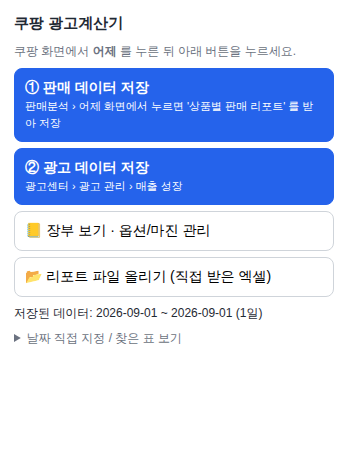
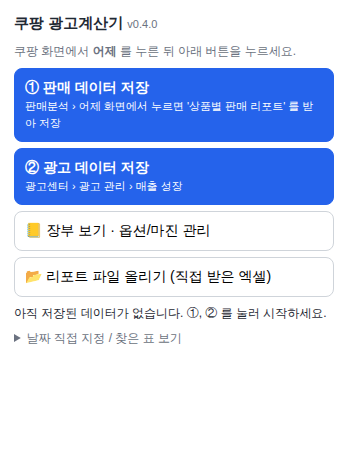
확장 v0.4.0: 읽기 스크립트 자동 주입, 주소의 날짜 인식, 버전 표시
- 확장 새로고침 후 이미 열린 쿠팡 탭에서 content script 가 없어 "표를 찾지 못했습니다" 가 나던 문제:
  팝업이 응답 없음을 감지하면 chrome.scripting 으로 직접 주입 후 재시도
- 판매분석 주소의 start_date/end_date(같을 때)를 데이터 날짜로 사용
- 자동 수집: 주소의 {date} 자리에 어제 날짜 치환, 판매분석은 표 대신 리포트 다운로드 흐름으로 처리
- ① 클릭 직후 2분 안의 xlsx/csv 다운로드는 파일명과 무관하게 리포트로 처리
- 팝업·장부 화면에 버전 표시, README 에 버전 기록, 가이드에 업데이트 방법 추가

Claude-Session: https://claude.ai/code/session_017jcEpdGfFum5x1i1dzes9z

Changed region(s): [[0.0294, 0.6696, 0.9706, 0.7], [0.3824, 0.0304, 0.4706, 0.0609]]

diff --git a/extension/background.js b/extension/background.js
@@ -3,7 +3,8 @@ import * as S from './lib/store.js';
 import { normalizeSales, normalizeAds, yesterdayIso } from './lib/parse.js';
 import { importSalesFile } from './lib/importer.js';
 
-const DEFAULTS = { salesUrl: 'https://wing.coupang.com/', adsUrl: 'https://advertising.coupang.com/', autoEnabled: false, autoTime: '13:00', waitSeconds: 12, serverSync: false, server: 'http://127.0.0.1:8765' };
+const DEFAULTS = { salesUrl: 'https://wing.coupang.com/tenants/business-insight/sales-analysis?start_date={date}&end_date={date}', adsUrl: 'https://advertising.coupang.com/', autoEnabled: false, autoTime: '13:00', waitSeconds: 12, serverSync: false, server: 'http://127.0.0.1:8765' };
+let expectUntil = 0, expectDate = null;
 const getSettings = async () => ({ ...DEFAULTS, ...(await chrome.storage.sync.get(DEFAULTS)) });
 const sleep = (ms) => new Promise((r) => setTimeout(r, ms));
 
@@ -55,12 +56,23 @@ async function readFromTab(tabId, kind) {
 
 async function collectKind(kind, dateOverride) {
   const s = await getSettings();
-  const url = kind === 'sales' ? s.salesUrl : s.adsUrl;
+  const target = dateOverride || yesterdayIso();
+  const url = (kind === 'sales' ? s.salesUrl : s.adsUrl).replace(/\{date\}/g, target);
   const tab = await chrome.tabs.create({ url, active: false });
   try {
     await sleep(s.waitSeconds * 1000);
-    try { await chrome.tabs.sendMessage(tab.id, { type: 'clickYesterday' }); await sleep(4000); } catch { /* 무시 */ }
-    const r = await readFromTab(tab.id, kind);
+    try { await chrome.scripting.executeScript({ target: { tabId: tab.id, allFrames: true }, files: ['content.js'] }); } catch { /* 이미 있음 */ }
+    if (!url.includes('{date}') && !url.includes(target)) { try { await chrome.tabs.sendMessage(tab.id, { type: 'clickYesterday' }); await sleep(4000); } catch { /* 무시 */ } }
+    let r = await readFromTab(tab.id, kind);
+    if (!r && kind === 'sales') {
+      // 판매분석은 표가 없다 → 엑셀 다운로드 → 상품별 판매 리포트. 다운로드 감지가 이어서 저장한다.
+      expectUntil = Date.now() + 120000; expectDate = target;
+      const c = await chrome.tabs.sendMessage(tab.id, { type: 'clickDownloadReport' }).catch(() => null);
+      if (!c?.ok) throw new Error(c?.reason || '엑셀 다운로드 버튼을 찾지 못했습니다');
+      await sleep(15000); // 다운로드 완료 대기 (onChanged 에서 저장)
+      await log(`[자동] 판매 리포트 다운로드 요청 (${target})`);
+      return { ok: true, saved: '다운로드', date: target };
+    }
     if (!r) throw new Error(`${kind === 'sales' ? '판매' : '광고'} 표를 찾지 못했습니다. 로그인이 풀렸거나 주소가 다를 수 있습니다 (${url})`);
     const date = dateOverride || r.date || yesterdayIso();
     const n = await saveLocal(kind, date, r.records);
@@ -96,14 +108,15 @@ chrome.runtime.onStartup.addListener(() => { scheduleAlarm(); flushQueue(); });
 chrome.storage.onChanged.addListener((ch, area) => { if (area === 'sync' && (ch.autoEnabled || ch.autoTime)) scheduleAlarm(); });
 chrome.alarms.onAlarm.addListener((a) => { if (a.name === 'daily') runAuto(); });
 // ---- 판매 리포트 다운로드 감지: 팝업 ① 이 다운로드를 누른 뒤(또는 사용자가 직접 받은 뒤) 파일을 다시 받아 저장한다.
-let expectUntil = 0, expectDate = null; const handled = new Set();
+const handled = new Set();
 const looksLikeReport = (item) => /(판매|sales|report|리포트)/i.test(item.filename || '') || /(report|sales|excel|download)/i.test(item.finalUrl || item.url || '');
 chrome.downloads.onChanged.addListener(async (delta) => {
   if (delta.state?.current !== 'complete' || handled.has(delta.id)) return;
   const [item] = await chrome.downloads.search({ id: delta.id }); if (!item) return;
   const ext = (item.filename || '').toLowerCase().match(/\.(xlsx|xls|csv)$/)?.[1];
   const fromCoupang = /coupang\.com/.test(item.finalUrl || item.url || '') || /coupang\.com/.test(item.referrer || '');
-  if (!ext || !(fromCoupang || Date.now() < expectUntil) || !looksLikeReport(item)) return;
+  const expected = Date.now() < expectUntil; // ① 을 누른 직후 2분 안의 엑셀은 이름과 상관없이 리포트로 본다
+  if (!ext || !(expected || (fromCoupang && looksLikeReport(item)))) return;
   handled.add(delta.id);
   const url = item.finalUrl || item.url;
   if (!/^https?:/.test(url)) { await log(`[다운로드] 파일을 자동으로 읽을 수 없는 방식(blob)입니다. 장부 보기 → 리포트 파일 올리기 로 올려 주세요: ${item.filename}`); notify('리포트를 자동으로 읽지 못했습니다. 장부 보기 → 리포트 파일 올리기 로 방금 받은 파일을 올려 주세요.'); return; }

diff --git a/extension/popup.js b/extension/popup.js
@@ -6,6 +6,21 @@ const msg = (t, cls = '') => { $('#msg').textContent = t; $('#msg').className = 
 
 async function activeTab() { const [t] = await chrome.tabs.query({ active: true, currentWindow: true }); return t; }
 
+// 확장 프로그램을 새로고침하면 이미 열려 있던 탭에는 읽기 스크립트가 없다 → 응답이 없으면 직접 주입한다.
+async function ensureContentScript(tab) {
+  try { const r = await chrome.tabs.sendMessage(tab.id, { type: 'pageInfo' }); if (r) return true; } catch { /* 주입 필요 */ }
+  try {
+    await chrome.scripting.executeScript({ target: { tabId: tab.id, allFrames: true }, files: ['content.js'] });
+    await new Promise((r) => setTimeout(r, 300));
+    const r = await chrome.tabs.sendMessage(tab.id, { type: 'pageInfo' }); return !!r;
+  } catch (e) { console.warn('content script inject failed', e); return false; }
+}
+function dateFromUrl(url) {
+  try { const q = new URL(url).searchParams; const s = q.get('start_date') || q.get('startDate'), e = q.get('end_date') || q.get('endDate');
+    if (s && /^20\d{2}-\d{2}-\d{2}$/.test(s) && (!e || s === e)) return s; } catch { /* 무시 */ }
+  return null;
+}
+
 async function readActive(kind) {
   const tab = await activeTab();
   let ids = [0];
@@ -23,6 +38,9 @@ async function readActive(kind) {
 async function saveKind(kind) {
   const label = kind === 'sales' ? '판매' : '광고';
   msg('표를 읽는 중…');
+  const tab0 = await activeTab();
+  if (!tab0?.url?.includes('coupang.com')) { msg('쿠팡 판매자센터/광고센터 화면에서 눌러 주세요. (현재: ' + (tab0?.url || '') + ')', 'err'); return; }
+  if (!(await ensureContentScript(tab0))) { msg('이 탭을 새로고침(F5)한 뒤 다시 눌러 주세요.', 'err'); return; }
   const { best, tables, tab } = await readActive(kind);
   $('#detail').textContent = tables.length ? tables.map((t) => `[${t.kind}] ${t.rows}행: ${t.headers.join(' | ')}`).join('\n') : '표를 찾지 못했습니다. 쿠팡 페이지에서 눌러 주세요.\n' + (tab?.url || '');
   if (!tab?.url?.includes('coupang.com')) { msg('쿠팡 판매자센터/광고센터 화면에서 눌러 주세요.', 'err'); return; }
@@ -31,7 +49,7 @@ async function saveKind(kind) {
     let info = null; try { info = await chrome.tabs.sendMessage(tab.id, { type: 'pageInfo' }); } catch { /* 무시 */ }
     if (info?.hasExcelDownload) {
       msg('엑셀 다운로드 → 상품별 판매 리포트 를 누르는 중…');
-      await chrome.runtime.sendMessage({ type: 'expectReport', date: $('#date').value || null });
+      await chrome.runtime.sendMessage({ type: 'expectReport', date: $('#date').value || dateFromUrl(tab.url) || null });
       let r = null; try { r = await chrome.tabs.sendMessage(tab.id, { type: 'clickDownloadReport' }); } catch { /* 무시 */ }
       if (r?.ok) { msg('리포트를 다운로드했습니다. 잠시 후 자동으로 저장됩니다. 자동 저장 알림이 안 오면 "장부 보기 → 리포트 파일 올리기" 로 방금 받은 파일을 올려 주세요.', 'ok'); }
       else { msg((r?.reason || '다운로드 버튼을 찾지 못했습니다') + '. 직접 엑셀 다운로드 → 상품별 판매 리포트 를 받은 뒤 "장부 보기 → 리포트 파일 올리기" 로 올려 주세요.', 'err'); }
@@ -39,7 +57,7 @@ async function saveKind(kind) {
     }
   }
   if (!best) { msg(`${label} 표를 찾지 못했습니다. 표가 보이는 화면인지 확인하세요. (아래 '찾은 표 보기')`, 'err'); return; }
-  const date = $('#date').value || best.date || yesterdayIso();
+  const date = $('#date').value || best.date || dateFromUrl(tab.url) || yesterdayIso();
   const rows = kind === 'sales' ? normalizeSales(best.records, date) : normalizeAds(best.records, date);
   if (!rows.length) { msg(`${label} 표는 찾았지만 인식된 행이 없습니다. 아래 '찾은 표 보기' 의 헤더를 알려주세요.`, 'err'); return; }
   const d = await S.load();
@@ -58,6 +76,7 @@ $('#open-app').onclick = () => chrome.tabs.create({ url: chrome.runtime.getURL('
 $('#open-import').onclick = () => chrome.tabs.create({ url: chrome.runtime.getURL('app.html#import') });
 
 (async () => {
+  $('#ver').textContent = 'v' + chrome.runtime.getManifest().version;
   const d = await S.load(); const ds = S.dates(d);
   if (!ds.length) msg('아직 저장된 데이터가 없습니다. ①, ② 를 눌러 시작하세요.');
   else msg(`저장된 데이터: ${ds[0]} ~ ${ds[ds.length - 1]} (${ds.length}일)`);

diff --git a/extension/content.js b/extension/content.js
@@ -85,7 +85,19 @@
   }
 
   // ---------- 날짜 찾기 ----------
+  function dateFromUrl(url) {
+    // 판매분석: ...sales-analysis?start_date=2026-09-01&end_date=2026-09-01 → 시작=끝이면 그 날짜
+    try {
+      const u = new URL(url); const q = u.searchParams;
+      const pick = (keys) => { for (const k of keys) { const v = q.get(k); if (v && /^20\d{2}-?\d{2}-?\d{2}$/.test(v)) return v.length === 8 ? `${v.slice(0, 4)}-${v.slice(4, 6)}-${v.slice(6)}` : v; } return null; };
+      const s = pick(['start_date', 'startDate', 'from', 'startDt', 'beginDate']), e = pick(['end_date', 'endDate', 'to', 'endDt']);
+      if (s && (!e || s === e)) return s;
+      const single = pick(['date', 'targetDate', 'reportDate']); if (single) return single;
+    } catch { /* 무시 */ }
+    return null;
+  }
   function detectDate() {
+    const fromUrl = dateFromUrl(location.href); if (fromUrl) return fromUrl;
     const re = /(20\d{2})[.\-/]\s?(\d{1,2})[.\-/]\s?(\d{1,2})/g;
     const cands = [];
     document.querySelectorAll('input').forEach((i) => { if (i.value) cands.push(i.value); });
@@ -139,7 +151,7 @@
   }
 
   window.__ccReadTables = allTables;
-  window.__ccDetectDate = detectDate; window.__ccClickDownloadReport = clickDownloadReport; window.__ccPageInfo = pageInfo;
+  window.__ccDetectDate = detectDate; window.__ccDateFromUrl = dateFromUrl; window.__ccClickDownloadReport = clickDownloadReport; window.__ccPageInfo = pageInfo;
   window.__ccPick = (kind) => { const t = pickTable(allTables(), kind); return t ? { records: toRecords(t), headers: t.headers, source: t.kind } : null; };
 
   chrome.runtime?.onMessage?.addListener((msg, _sender, sendResponse) => {

diff --git a/extension/app.html b/extension/app.html
@@ -8,7 +8,7 @@
 </head>
 <body>
 <header>
-  <h1>쿠팡 광고계산기</h1>
+  <h1>쿠팡 광고계산기 <span id="ver" class="mini"></span></h1>
   <nav>
     <button data-tab="ledger" class="active">광고 장부</button>
     <button data-tab="ads">일별 광고 입력</button>
@@ -123,7 +123,7 @@
   </div>
   <div class="card">
     <b>매일 자동 수집</b>
-    <p class="mini">크롬이 켜져 있으면 정해진 시각에 두 화면을 백그라운드에서 열어 '어제' 데이터를 저장합니다. 판매분석·광고 관리 화면에서 '어제' 를 누른 뒤 주소창의 주소를 복사해 넣으세요.</p>
+    <p class="mini">크롬이 켜져 있으면 정해진 시각에 두 화면을 백그라운드에서 열어 '어제' 데이터를 저장합니다. 주소의 <code>{date}</code> 자리에 어제 날짜가 자동으로 들어갑니다. 광고 관리 화면은 '어제' 를 누른 뒤 주소창의 주소를 복사해 넣으세요.</p>
     <div class="row"><label style="width:150px">판매분석 주소</label><input id="set-salesUrl" style="width:520px"></div>
     <div class="row"><label style="width:150px">광고 관리 주소</label><input id="set-adsUrl" style="width:520px"></div>
     <div class="row"><label style="width:150px">시각</label><input type="time" id="set-autoTime"> <label><input type="checkbox" id="set-autoEnabled"> 자동 수집 켜기</label>

diff --git a/extension/app.js b/extension/app.js
@@ -192,7 +192,7 @@ $('#ads-csv').onclick = async () => {
   for (const date of Object.keys(d.ads).sort()) for (const r of Object.values(d.ads[date])) lines.push(keys.map((k) => csvEsc(r[k])).join(','));
   download('광고데이터.csv', lines.join('\n'));
 };
-const SETTINGS = { salesUrl: 'https://wing.coupang.com/', adsUrl: 'https://advertising.coupang.com/', autoEnabled: false, autoTime: '13:00', waitSeconds: 12, serverSync: false, server: 'http://127.0.0.1:8765' };
+const SETTINGS = { salesUrl: 'https://wing.coupang.com/tenants/business-insight/sales-analysis?start_date={date}&end_date={date}', adsUrl: 'https://advertising.coupang.com/', autoEnabled: false, autoTime: '13:00', waitSeconds: 12, serverSync: false, server: 'http://127.0.0.1:8765' };
 async function loadSettings() {
   const s = await chrome.storage.sync.get(SETTINGS);
   for (const k of Object.keys(SETTINGS)) { const el = $('#set-' + k); if (el.type === 'checkbox') el.checked = !!s[k]; else el.value = s[k]; }
@@ -225,5 +225,6 @@ $('#import-ads').onchange = async (ev) => {
 $('#import-date').value = localIso(yday);
 
 /* ---- 초기화 ---- */
+$('#ver').textContent = 'v' + chrome.runtime.getManifest().version;
 $('#ads-date').value = localIso(yday);
 loadSummary().then(loadLedger);

diff --git a/extension/popup.html b/extension/popup.html
@@ -16,7 +16,7 @@
   pre { background: #f3f4f6; padding: 6px; font-size: 11px; max-height: 120px; overflow: auto; white-space: pre-wrap; }
 </style></head>
 <body>
-<h1>쿠팡 광고계산기</h1>
+<h1>쿠팡 광고계산기 <span id="ver" style="font-size:11px;font-weight:400;color:#6b7280"></span></h1>
 <div class="hint">쿠팡 화면에서 <b>어제</b> 를 누른 뒤 아래 버튼을 누르세요.</div>
 <button class="primary big" id="send-sales">① 판매 데이터 저장<br><span style="font-weight:400;font-size:11px">판매분석 › 어제 화면에서 누르면 '상품별 판매 리포트' 를 받아 저장</span></button>
 <button class="primary big" id="send-ads">② 광고 데이터 저장<br><span style="font-weight:400;font-size:11px">광고센터 › 광고 관리 › 매출 성장</span></button>

diff --git a/README.md b/README.md
@@ -17,6 +17,16 @@
 
 ---
 
+## 버전 기록 (확장 프로그램)
+팝업과 장부 화면의 제목 옆에 현재 버전이 표시됩니다. 새 버전을 받으면 `chrome://extensions` 에서 카드의 새로고침(↻)을 누르세요.
+
+| 버전 | 내용 |
+|---|---|
+| **v0.4.0** | 확장 새로고침 뒤 쿠팡 탭을 새로고침하지 않아도 되게 읽기 스크립트를 자동 주입. 판매분석 주소의 `start_date`/`end_date` 로 날짜 인식. 자동 수집 주소에 `{date}` 자리표시자. 버전 표시. |
+| v0.3.0 | 판매분석은 '엑셀 다운로드 → 상품별 판매 리포트' 파일로 저장 (① 버튼이 대신 클릭, 다운로드 자동 감지). 리포트 파일 올리기. 라이브러리 없는 xlsx 리더. |
+| v0.2.0 | 서버 없이 확장 프로그램 단독 동작 (저장·계산·화면 내장), 마진 이력, 백업/복원, 자동 수집. |
+| v0.1.0 | 첫 버전 (파이썬 서버로 전송). |
+
 ## 🔧 고급: 파이썬 프로그램 (선택)
 
 아래는 같은 계산을 PC 에서 파이썬으로 돌리는 버전입니다. 확장 프로그램만 써도 충분하며,

diff --git a/docs/초보자_가이드.md b/docs/초보자_가이드.md
@@ -84,7 +84,13 @@
 
 ---
 
+## 새 버전으로 바꾸기
+1. ZIP 을 다시 받아 압축을 풀고, 예전 `extension` 폴더를 새 폴더로 바꿉니다.
+2. `chrome://extensions` → 쿠팡 광고계산기 카드의 **새로고침(↻)** 을 누릅니다.
+3. 팝업 제목 옆의 버전(v0.4.0 처럼)이 바뀌었는지 확인합니다.
+
 ## 자주 묻는 것
+- **"이 탭을 새로고침(F5)한 뒤 다시 눌러 주세요"** → 쿠팡 탭에서 F5 를 누르고 다시 ① 을 누르세요. (v0.4.0 부터는 대부분 자동으로 해결됩니다)
 
 - **판매 데이터: "표를 찾지 못했습니다"** → 판매분석은 표가 아니라 엑셀 리포트로 저장합니다. ① 을 누르면 다운로드를 대신 눌러 주고, 안 되면 직접 받은 파일을 **📂 리포트 파일 올리기** 에 올리세요.
 - **광고 데이터: "표를 찾지 못했습니다"** → 캠페인 표가 화면에 보이는 상태에서 눌렀는지 확인하세요. 팝업 아래 "찾은 표 보기" 에 나온 헤더를 알려주시면 맞춰 드립니다.
